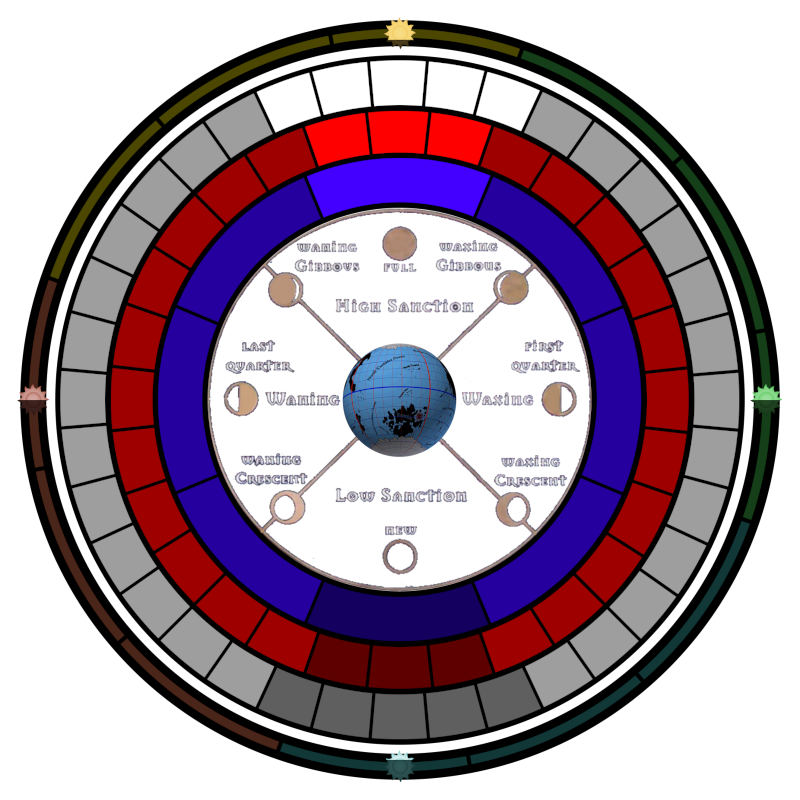
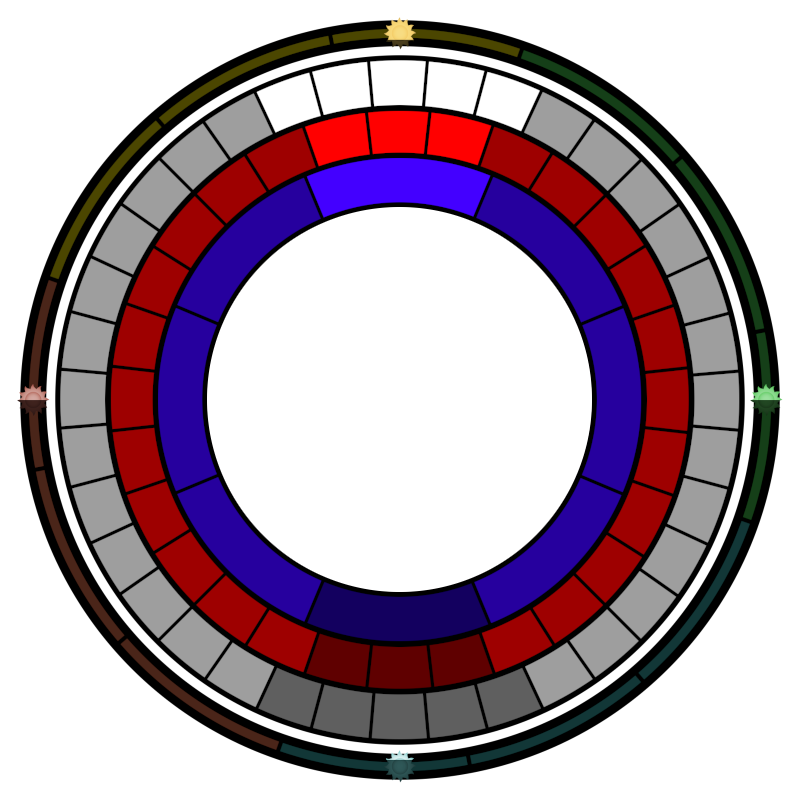
add sky chart

Changed region(s): [[0.25, 0.25, 0.75, 0.7188], [0.4062, 0.6562, 0.5938, 0.75], [0.3438, 0.6875, 0.4062, 0.7188]]

diff --git a/HtmlKrynnEphemeris.js b/HtmlKrynnEphemeris.js
@@ -65,15 +65,78 @@ function convert_calendar_day_to_epoch_day(p_year, p_month, p_day)
 //////////////////////////////////////////////////////////////////////////
 //////////////////////////////////////////////////////////////////////////
 
-function rotate_moon_phase(p_moon_phase, p_rotation)
+function rotate_body_phase(p_body_phase, p_initial_rotation_0_to_1)
 {
-   p_moon_phase += p_rotation;
+   p_body_phase += p_initial_rotation_0_to_1;
    
-   while(p_moon_phase >= 1) p_moon_phase -= 1;
-   while(p_moon_phase < 0) p_moon_phase += 1;
+   while(p_body_phase >= 1) p_body_phase -= 1;
+   while(p_body_phase < 0) p_body_phase += 1;
    
-   return p_moon_phase;
+   return p_body_phase;
 }
+
+//////////////////////////////////////////////////////////////////////////
+//////////////////////////////////////////////////////////////////////////
+
+function deduce_canvas_sky_chart_coordinates(p_sun_phase, p_sun_phase_max, p_sky_chart_image_size)
+{
+   const canvas_x_size = byId("ID_canvas").width;
+   const canvas_y_size = byId("ID_canvas").height;
+   const canvas_radius = canvas_x_size / 2;
+   const canvas_center_x = canvas_radius;
+   const canvas_center_y = canvas_radius;
+   const sky_chart_image_half_size = p_sky_chart_image_size / 2;
+
+   let sky_chart_phase = p_sun_phase / p_sun_phase_max;
+   let sky_chart_phase_radian = sky_chart_phase * 2 * Math.PI;
+   
+   var str_alert = "";
+   str_alert += "canvas_x_size: " + canvas_x_size + "\n";
+   str_alert += "canvas_y_size: " + canvas_y_size + "\n";
+   str_alert += "canvas_radius: " + canvas_radius + "\n";
+   str_alert += "canvas_center_x: " + canvas_center_x + "\n";
+   str_alert += "canvas_center_y: " + canvas_center_y + "\n";
+   str_alert += "sky_chart_image_half_size: " + sky_chart_image_half_size + "\n";
+   str_alert += "sky_chart_phase: " + sky_chart_phase + "\n";
+   str_alert += "sky_chart_phase_radian: " + sky_chart_phase_radian + "\n";
+   //str_alert += "moon_center_y: " + moon_center_y + "\n";
+   //str_alert += "moon_pos_x: " + moon_pos_x + "\n";
+   //str_alert += "moon_pos_y: " + moon_pos_y + "\n";
+   //alert(str_alert);
+
+   return { rotation_radian : sky_chart_phase_radian };
+}
+
+function draw_sky_chart(p_sun_phase, p_sun_phase_max, p_sky_chart_image_size)
+{
+   const canvas_x_size = byId("ID_canvas").width;
+   const canvas_y_size = byId("ID_canvas").height;
+   const ctx = get_map_context();
+
+   // sky chart map
+   const sky_chart_img = document.getElementById("ID_imageSkyChart");
+
+   const sky_chart_pos = deduce_canvas_sky_chart_coordinates(p_sun_phase, p_sun_phase_max, p_sky_chart_image_size);
+   
+   const vertical_offset = 80;
+   
+   // Rotated rectangle
+   ctx.translate(canvas_x_size/2, canvas_y_size/2);
+   ctx.translate(0, -vertical_offset);
+   //ctx.rotate(90 * Math.PI / 180);
+   ctx.rotate(sky_chart_pos.rotation_radian);
+   ctx.translate(0, +vertical_offset);
+   ctx.translate(-canvas_x_size/2, -canvas_y_size/2);
+
+
+   ctx.drawImage(sky_chart_img, 0, -vertical_offset);
+
+   // Reset transformation matrix to the identity matrix
+   ctx.setTransform(1, 0, 0, 1, 0, 0);   
+}
+
+//////////////////////////////////////////////////////////////////////////
+//////////////////////////////////////////////////////////////////////////
 
 function deduce_canvas_moon_coordinates(p_is_taladas, p_is_sun, p_is_nuitari, p_moon_phase, p_moon_phase_max, p_radius, p_moon_image_size)
 {
@@ -88,15 +151,15 @@ function deduce_canvas_moon_coordinates(p_is_taladas, p_is_sun, p_is_nuitari, p_
    
    if(p_is_nuitari && (!p_is_taladas))
    {
-      moon_phase = rotate_moon_phase(moon_phase, 0.1875);
+      moon_phase = rotate_body_phase(moon_phase, 0.1875);
    }
    else if (p_is_sun)
    {
-      moon_phase = rotate_moon_phase(moon_phase, (10 / 336) -0.25);
+      moon_phase = rotate_body_phase(moon_phase, (10 / 336) -0.25);
    }
    else
    {
-      moon_phase = rotate_moon_phase(moon_phase, 0.25);
+      moon_phase = rotate_body_phase(moon_phase, 0.25);
    }
 
    const moon_center_x = p_radius * Math.cos(moon_phase * 2 * Math.PI);
@@ -136,7 +199,7 @@ function draw_one_moon(p_is_taladas, p_is_sun, p_is_nuitari, p_name, p_moon_phas
 
 function draw_sun(p_is_taladas, p_sun_phase)
 {
-   draw_one_moon(p_is_taladas, true, false, "Sun", p_sun_phase, 336, 365, 48);
+   draw_one_moon(p_is_taladas, true, false, "Sun", p_sun_phase, 336, 367, 48);
 }
 
 function draw_moon_solinari(p_is_taladas, p_moon_phase)
@@ -163,16 +226,39 @@ function get_map_context()
 
 function draw_map(p_is_taladas, p_sun_phase, p_solinari_phase, p_lunitari_phase, p_nuitari_phase)
 {
+   const background_color = "#000a1c";
+   
    const ctx = get_map_context();
    
    // color background
-   ctx.fillStyle = "#000a1c";
+   ctx.fillStyle = background_color;
    ctx.fillRect(0, 0, 800, 800);
    
+   // sky chart map
+   draw_sky_chart(p_sun_phase, 336, 800);
+   //const sky_chart_img = document.getElementById("ID_imageSkyChart");
+   //ctx.drawImage(sky_chart_img, 0, -70);
+
+   // color background
+   ctx.fillStyle = background_color;
+   ctx.fillRect(0, 0, 800, 200);
+   ctx.fillRect(0, 600, 800, 200);
+   ctx.fillRect(0, 0, 200, 800);
+   ctx.fillRect(600, 0, 200, 800);
+
+
+   // compass map
+   const compass_img = document.getElementById("ID_imageCompass");
+   ctx.drawImage(compass_img, 0, 0);
+
    // background map
    const map_src = (p_is_taladas) ? "ID_imageMapTaladas" : "ID_imageMapClassic";
    const map_img = document.getElementById(map_src);
    ctx.drawImage(map_img, 0, 0);
+
+   // moon phases map
+   const moon_phases_img = document.getElementById("ID_imageMoonPhases");
+   ctx.drawImage(moon_phases_img, 0, 0);
 
    draw_sun(p_is_taladas, p_sun_phase);
    draw_moon_solinari(p_is_taladas, p_solinari_phase);

diff --git a/HtmlKrynnEphemeris.html b/HtmlKrynnEphemeris.html
@@ -4,13 +4,13 @@
 <meta charset="utf-8" />
 <meta http-equiv="Content-Style-Type" content="text/css" />
 <meta http-equiv="Content-Script-Type" content="text/javascript" />
-<title>Krynn Ephemeris v0.9.1</title>
+<title>Krynn Ephemeris v0.9.9</title>
 <script src="./HtmlKrynnEphemeris.js"></script>
 <style>@import url("HtmlKrynnEphemeris.css");</style>
 </head>
 <body onload="do_onload()">
 
-<h1>Krynn Ephemeris (v0.9.1)</h1>
+<h1>Krynn Ephemeris (v0.9.9)</h1>
 
 <!--<div>🌑🌒🌓🌔🌕🌖🌗🌘</div>-->
 
@@ -362,6 +362,9 @@ div#ID_map
 <img id="ID_imageLunitari" src="./moon.lunitari.png" /><br />
 <img id="ID_imageNuitari" src="./moon.nuitari.png" /><br />
 <img id="ID_imageSun" src="./sun.png" /><br />
+<img id="ID_imageSkyChart" src="./sky_chart.png" /><br />
+<img id="ID_imageCompass" src="./decoration.compass.png" /><br />
+<img id="ID_imageMoonPhases" src="./decoration.moon_phases.png" /><br />
 </div>
 
 </body>
